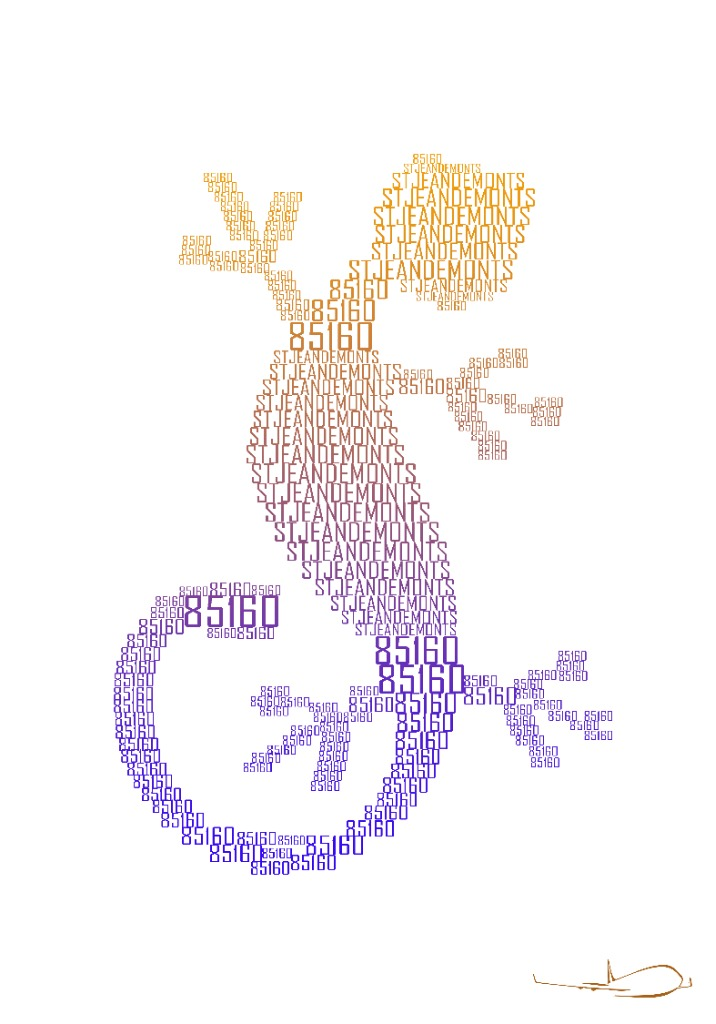
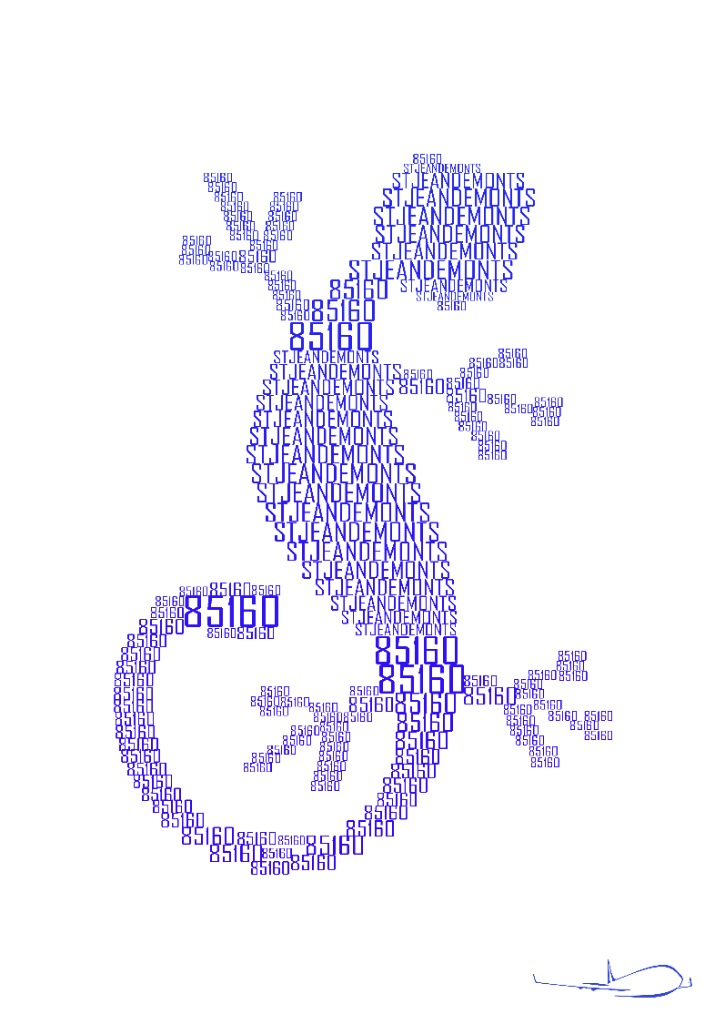
feat: mise à jour Cap-Vert, 2CV et Margouillat

diff --git a/src/pages/Galerie.jsx b/src/pages/Galerie.jsx
@@ -32,7 +32,7 @@ const ailes = [
       { id: "an7", title: "Alpes de Haute-Provence", subject: "Territoire", text: "Les gorges, la lavande, l'air pur des sommets du Sud.", image: "/artworks/region_2.jpg" },
       { id: "an8", title: "Monaco", subject: "Territoire", text: "La Principauté perchée, le Rocher au bord de l'eau.", image: "/artworks/region_3.jpg" },
       { id: "an9", title: "Ibiza", subject: "Territoire", text: "L'île blanche, vibrante de musique et d'énergie baléarique.", image: "/artworks/region_4.jpg" },
-      { id: "an10", title: "Cap-Vert", subject: "Territoire", text: "L'archipel volcanique, balayé par les vents de l'Atlantique.", image: "/artworks/region_5.jpg" },
+      { id: "an10", title: "Cap-Vert", subject: "Territoire", text: "L'archipel volcanique, balayé par les vents de l'Atlantique.", image: "/artworks/ville_capvert.jpg" },
       { id: "an29", title: "Bouches-du-Rhône", subject: "Département", text: "Le 13. Le soleil éclatant et l'âme méditerranéenne.", image: "/artworks/region_6.jpg" },
       { id: "an30", title: "Bretagne", subject: "Région", text: "Le 35. L'Armor et l'Argoat, la force brute face à l'océan.", image: "/artworks/region_7.jpg" },
       { id: "an31", title: "Corse", subject: "Région", text: "L'île de Beauté, la montagne majestueuse dans la mer.", image: "/artworks/region_8.jpg" },